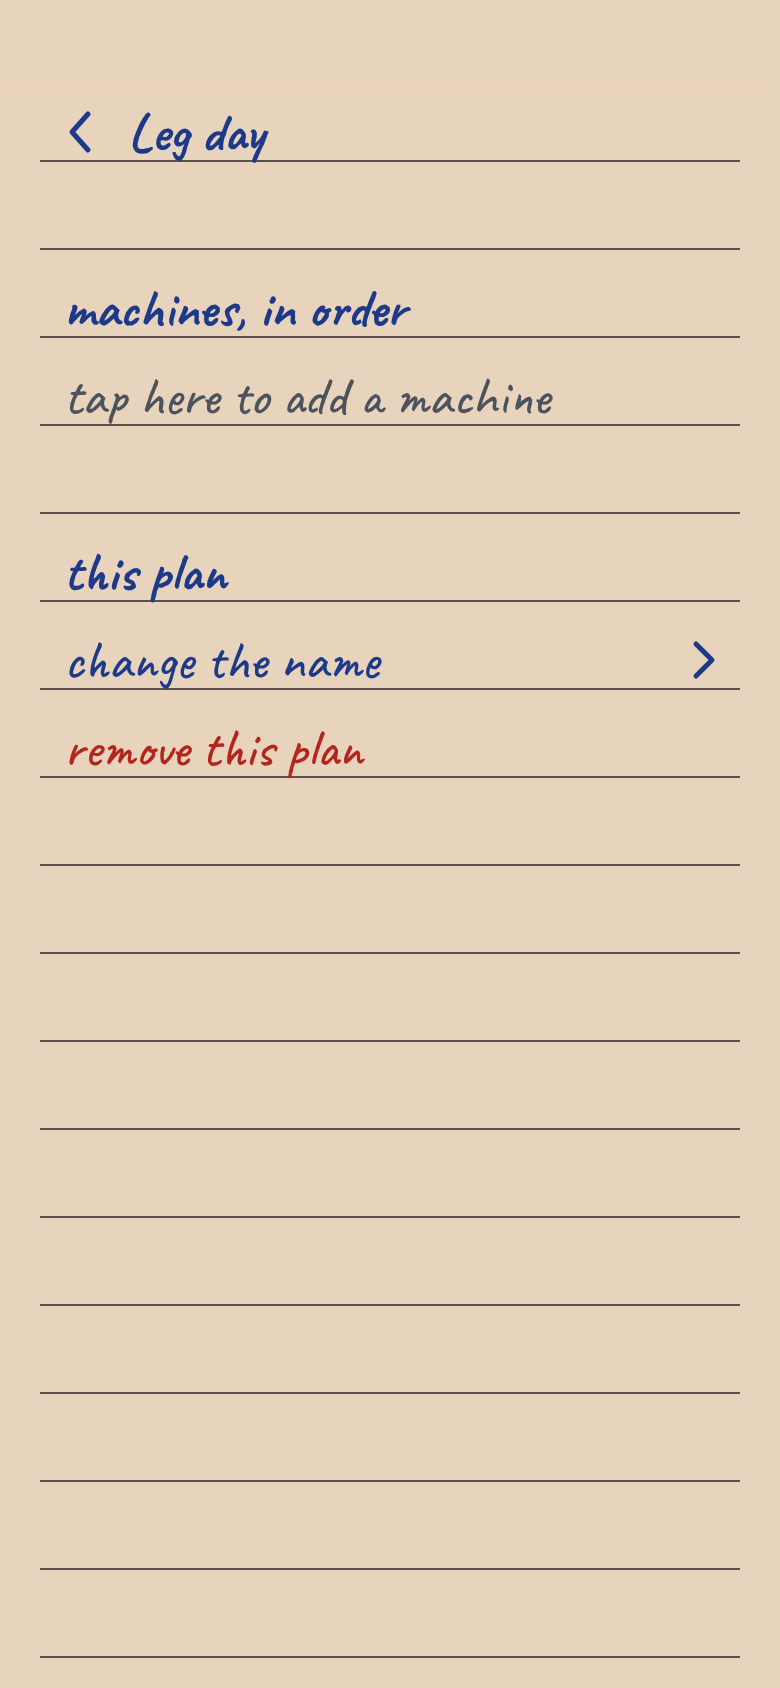
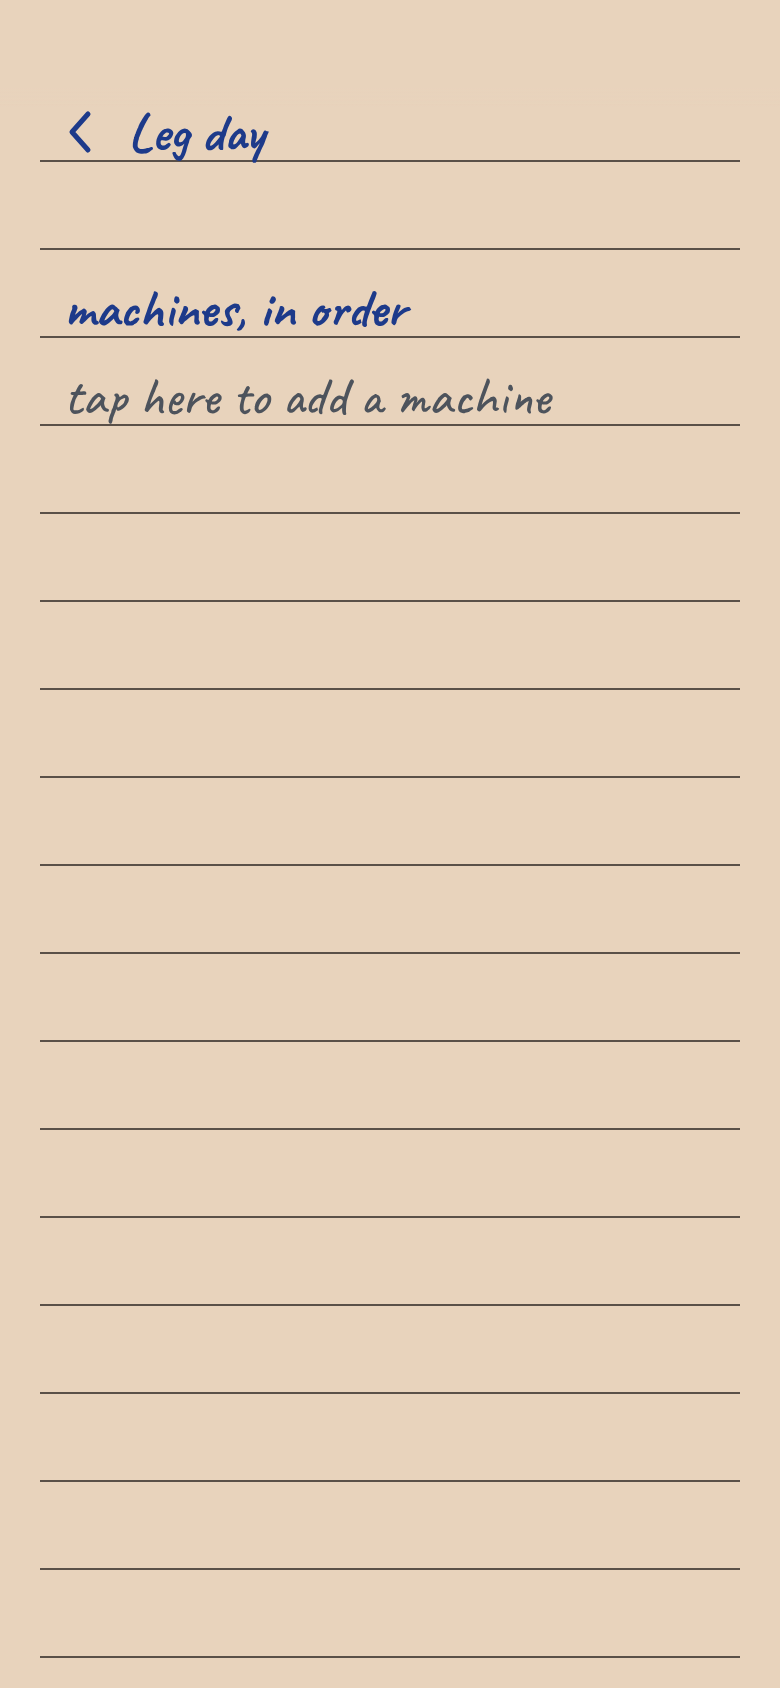
Plan screen: tap the name to change it, remove a plan in settings
The plan screen loses its "this plan" part. The name at the top is now a
button that turns into a text field, the way a machine is renamed.
A plan is removed in settings by dragging it left, like any other line.

diff --git a/index.html b/index.html
@@ -439,7 +439,8 @@ button {
   color: var(--pen);
 }
 
-.stat-link.is-danger { color: var(--danger); }
+#planTitle { flex: 1 1 auto; min-width: 0; }
+.title-btn { display: block; width: 100%; height: var(--line); overflow: hidden; text-align: left; text-overflow: ellipsis; white-space: nowrap; }
 
 .row-handle { /* drag it to move a machine up or down in a plan */
   flex: none;
@@ -586,16 +587,12 @@ button {
       <button class="back-btn" type="button" data-back="settings" aria-label="Back to settings">
         <svg width="14" height="24" viewBox="0 0 14 24" fill="none" stroke="currentColor" stroke-width="2.5" stroke-linecap="round" stroke-linejoin="round" aria-hidden="true" focusable="false"><path d="M11 3l-8 9 8 9"/></svg>
       </button>
-      <h1 id="planTitle">Plan</h1>
+      <h1 id="planTitle"></h1>
     </div>
     <div class="blank" aria-hidden="true"></div>
     <h2 class="section-title">machines, in order</h2>
     <div id="planMachines" class="bleed" role="list" aria-label="Machines in this plan"></div>
     <div id="planAddRow" class="bleed add-row add-row--pencil"></div>
-    <div class="blank" aria-hidden="true"></div>
-    <h2 class="section-title">this plan</h2>
-    <button id="planRename" class="stat-link" type="button"><span>change the name</span><svg width="12" height="22" viewBox="0 0 12 22" fill="none" stroke="currentColor" stroke-width="2.5" stroke-linecap="round" stroke-linejoin="round" aria-hidden="true" focusable="false"><path d="M2 3l8 8-8 8"/></svg></button>
-    <button id="planRemove" class="stat-link is-danger" type="button"><span>remove this plan</span></button>
     <div class="filler" aria-hidden="true"></div>
   </div>
 </section>
@@ -3506,16 +3503,18 @@ button {
 /**
  * One plan: its machines in the order you do them. Names only, no kg or reps.
  * Drag the handle of a machine to move it, drag the row left to take it out.
+ * Tap the name at the top to change it. A plan is removed in settings, like a machine: drag it left.
  */
 (function (FN) {
   'use strict';
   const { Icons } = FN.config;
   const { escapeHtml, sameName, clamp } = FN.util;
-  const { byId } = FN.dom;
+  const { byId, shake } = FN.dom;
+  const { LineInput } = FN.lineInput;
   const { SwipeRows } = FN.swipeRows;
 
   class PlanScreen {
-    /** app: to go back to settings when the plan is removed. */
+    /** app: to draw the screen again after an undo. */
     constructor({ notebook, sheet, toast, app }) {
       this.notebook = notebook;
       this.sheet = sheet;
@@ -3532,10 +3531,16 @@ button {
 
     render({ planId }) {
       this.planId = planId;
-      const plan = this.notebook.plan(planId);
-      this.title.textContent = plan ? plan.name : 'Plan';
+      this.renderTitle();
       this.renderList();
       this.renderAddRow();
+    }
+
+    /** The plan's name, as a button: tap it to change the name. */
+    renderTitle() {
+      const plan = this.notebook.plan(this.planId);
+      const name = escapeHtml(plan ? plan.name : 'Plan');
+      this.title.innerHTML = `<button class="title-btn" type="button" aria-label="${name}: tap to change the name">${name}</button>`;
     }
 
     renderList() {
@@ -3599,39 +3604,28 @@ button {
       });
     }
 
-    /* ---- The plan itself ---- */
+    /* ---- The name ---- */
 
+    /** Turns the name into a text field, the way a machine is renamed in settings. */
     rename() {
       const plan = this.notebook.plan(this.planId);
       if (!plan) return;
-      this.sheet.open({
-        title: 'Change the name',
-        text: { value: plan.name, placeholder: 'name of the plan', label: 'Name of the plan' },
-        columns: 'none',
-        labels: [],
-        wheels: [],
-        actionLabel: 'Save',
-        onAction: () => {
-          const name = this.sheet.textField.value.trim();
-          if (!name || name === plan.name) return;
+      const field = new LineInput({
+        value: plan.name,
+        label: 'Name of the plan',
+        onSubmit: (name, el) => {
+          if (!name || name === plan.name) return 'close';
           if (this.notebook.planNameTaken(name, plan.id)) {
-            this.toast.show('There is a plan with that name already');
-            return;
+            shake(el);
+            return 'keep';
           }
           this.notebook.renamePlan(plan.id, name);
-          this.title.textContent = this.notebook.plan(plan.id).name;
+          return 'close';
         },
+        onClose: () => this.renderTitle(),
       });
-    }
-
-    remove() {
-      const undo = this.notebook.removePlan(this.planId);
-      if (!undo) return;
-      this.app.back('settings');
-      this.toast.show('Plan removed', () => {
-        undo();
-        this.app.refresh();
-      });
+      this.title.replaceChildren(field.el);
+      field.focus();
     }
 
     /* ---- Moving a machine up or down ---- */
@@ -3687,8 +3681,9 @@ button {
       this.addRow.addEventListener('click', (e) => {
         if (e.target.closest('.pencil-btn')) this.addMachine();
       });
-      byId('planRename').addEventListener('click', () => this.rename());
-      byId('planRemove').addEventListener('click', () => this.remove());
+      this.title.addEventListener('click', (e) => {
+        if (e.target.closest('.title-btn')) this.rename();
+      });
 
       new SwipeRows(this.list, {
         onTap: () => {},

diff --git a/design/README.md b/design/README.md
@@ -27,8 +27,8 @@ They are pictures of the real `index.html`, so they show what is built. Screens 
 | Plans | [19-new-plan-name.png](19-new-plan-name.png) | Settings, "tap here to add a plan": name the plan |
 | Plans | [20-plan-empty.png](20-plan-empty.png) | The new plan, still empty |
 | Plans | [21-plan-add-machine.png](21-plan-add-machine.png) | Pick a machine, or write a new one. The panel comes back for the next machine |
-| Plans | [22-plan.png](22-plan.png) | One plan: machine names in order. Drag the handle to move one, drag left to take it out |
-| Plans | [23-settings-plans.png](23-settings-plans.png) | Settings with two plans. Tap one to open it, drag left to remove it |
+| Plans | [22-plan.png](22-plan.png) | One plan: machine names in order. Drag the handle to move one, drag left to take it out. Tap the name at the top to change it |
+| Plans | [23-settings-plans.png](23-settings-plans.png) | Settings with two plans. Tap one to open it, drag left to remove it, like a line in the notebook |
 | A day from a plan | [24-new-date-plan.png](24-new-date-plan.png) | New date: the plan wheel on the right starts on "No plan". Pick a plan and its lines show in pencil |
 | A day from a plan | [25-plan-day-ready.png](25-plan-day-ready.png) | "Start Leg day": the panel opens on the first machine, with last time's kg and reps |
 | A day from a plan | [26-plan-log-next-set.png](26-plan-log-next-set.png) | After each set the panel comes back: "Log set 4", or on to the next machine |
